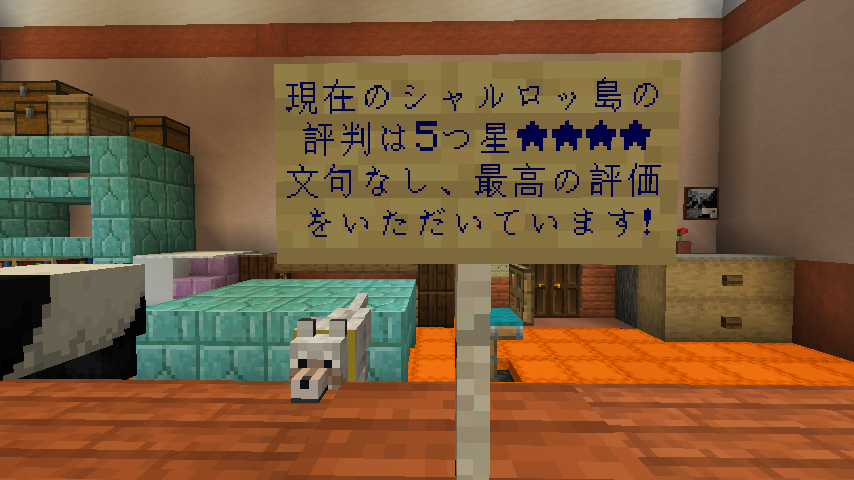
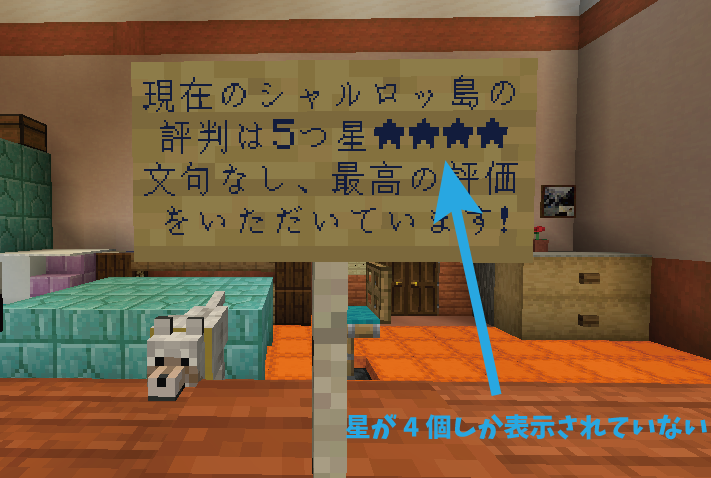
エラッタをですます調に統一してみた

diff --git a/pages/errata.vue b/pages/errata.vue
@@ -15,7 +15,7 @@
 
         <section class="eratta_article">
           <div>
-            <p>公開当初に配布していたバージョン1.16対応のセーブデータにおいて、プレイ開始時の初期位置（初期リスポーン位置）に誤りがございました。</p>
+            <p>公開当初に配布していたバージョン1.16対応のセーブデータにおいて、プレイ開始時の初期位置（初期リスポーン位置）に誤りがありました。</p>
             <p><strong>6月26日に更新した、最新の配布データ（charlotte-world-1.16.1-2020-06-26-15-55-04.zip）にて修正されております。</strong></p>
           </div>
 
@@ -34,7 +34,7 @@
           </h3>
 
           <div>
-            <p>・クリエイティブモード：通常飛行にて移動可能です</p>
+            <p>・クリエイティブモード：通常飛行にて移動可能です。</p>
             <p>・サバイバルモード：島村建設本社ビル斜め向かい、ブティックFORESTからバーチャル赤羽エリア外へ飛び下りる事が可能です。落下ダメージはありません。</p>
           </div>
         </section>
@@ -45,7 +45,7 @@
 
         <section class="eratta_article">
           <div>
-            <p>「赤羽の9冊の本の謎」の最後に本を収めるエリアにて、樽の中に本を収めても反応しないことがあります</p>
+            <p>「赤羽の9冊の本の謎」の最後に本を収めるエリアにて、樽の中に本を収めても反応しないことがあります。</p>
             <p><strong>本を収めたあと、以下の様に樽の前が光った状態が正しく認識されている状態となります。</strong></p>
             <img src="/errata/akabane-book-collect.jpg" alt="赤羽の本">
           </div>
@@ -68,7 +68,7 @@
 
         <section class="eratta_article">
           <div>
-            <p>ミコシャルTNT処理班の解除指示書P14にて、環境によって最後の一行が表示されない場合がある</p>
+            <p>ミコシャルTNT処理班の解除指示書P14にて、環境によって最後の一行が表示されない場合があります。</p>
             <img src="/errata/tnt-book-incollect.png" alt="解除指示書">
           </div>
 
@@ -77,7 +77,7 @@
           </h3>
 
           <div>
-            <p>解除指示書P14の正しい内容は以下のスクリーンショットの通りとなりますので、読み替えてください</p>
+            <p>解除指示書P14の正しい内容は以下のスクリーンショットの通りとなりますので、読み替えてください。</p>
             <p><strong>ミニゲーム開始前にあらかじめ解除指示書P14を確認するようにお願いします</strong></p>
             <img src="/errata/tnt-book-collect.png" alt="解除指示書">
           </div>
@@ -89,7 +89,7 @@
 
         <section class="eratta_article">
           <div>
-            <p>黄9丁目エリア、島村フラワーガーデンの前の地図が消えていることがあります</p>
+            <p>黄9丁目エリア「島村フラワーガーデン」前の地図が消えていることがあります。</p>
           </div>
 
           <h3 class="eratta_sectiontitle">
@@ -97,7 +97,7 @@
           </h3>
 
           <div>
-            <p>黄9丁目の旗の上に浸食してきているツタを破壊すると地図が表示されるようになります</p>
+            <p>黄9丁目の旗の上に浸食してきているツタを破壊すると地図が表示されるようになります。</p>
             <img src="/errata/flower-garden-map-collect.jpg" alt="島村フラワーガーデン前">
           </div>
         </section>
@@ -108,7 +108,7 @@
 
         <section class="eratta_article">
           <div>
-            <p>シャルロッ島案内所内の向かって右側の島評価の看板で、一部環境で星が4個しか表示されていない場合がある</p>
+            <p>シャルロッ島案内所内の向かって右側の島評価の看板で、一部環境で星が4個しか表示されていない場合があります。</p>
             <img src="/errata/charlotte-island-star-incollect.png" alt="シャルロッ島の評価">
           </div>
 
@@ -131,7 +131,7 @@
 
         <section class="eratta_article">
           <div>
-            <p>島村建設メディアビル・上層階用エレベーター乗り場の看板で「しまむーびー」表記になってしまっている箇所がある</p>
+            <p>島村建設メディアビル・上層階用エレベーター乗り場の看板で「しまむーびー」表記になっている箇所があります。</p>
             <img src="/errata/shimamura-media-bldg-movie.jpg" alt="島村建設メディアビル">
           </div>
 
